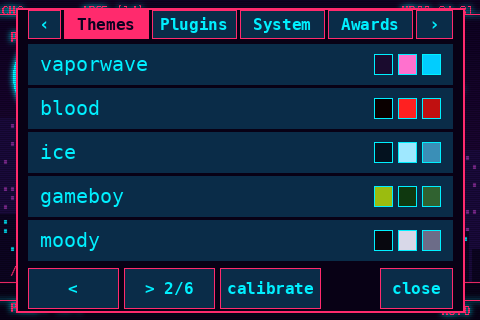
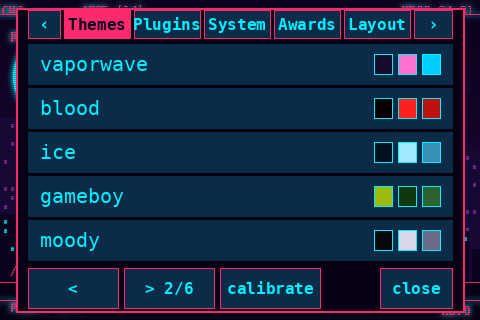
Wider tab window, and a ship for the startrek scene (2.11.1)
Feedback from someone who tried the touch menu: everything was clean
and easy, but the navigation felt finicky. With 6 tabs and only 4
shown at once, reaching some took two scroll-arrow taps; now 5 show
at once, so any tab is one tap away.

Also added a ship to the startrek scene, flying past every so often,
the same idea as the ocean's dolphin, forest's fox, desert's scorpion
and winter's penguin -- suggested by the same feedback.

Changed region(s): [[0.125, 0.0312, 0.9062, 0.125]]

diff --git a/theme_manager.py b/theme_manager.py
@@ -1412,6 +1412,23 @@ def _dyn_warp(img, d, w, h, t, sp):
         d.line([(cx + math.cos(ang) * r0, cy + math.sin(ang) * r0 * 0.7), (cx + math.cos(ang) * r1, cy + math.sin(ang) * r1 * 0.7)], fill=col, width=1)
 
 
+def _dyn_ship(img, d, w, h, t, sp):
+    """A ship glides past, high and fast, every so often -- not a constant fixture."""
+    period = max(1.0, 22.0 / sp)
+    phase = (t % period) / period
+    if phase > 0.22:
+        return
+    travel = phase / 0.22
+    x = -50 + travel * (w + 100)
+    y = 148 + 10 * math.sin(travel * math.pi)
+    col, glow = (215, 220, 235), (255, 210, 140)
+    d.ellipse((x - 9, y - 5, x + 11, y + 5), fill=col)                                       # saucer
+    d.polygon([(x - 4, y + 2), (x + 22, y + 3), (x + 26, y + 7), (x - 2, y + 8)], fill=col)   # hull
+    for dy in (-8, 9):
+        d.ellipse((x + 8, y + dy, x + 30, y + dy + 5), fill=col)                             # nacelle
+        d.ellipse((x + 27, y + dy + 1, x + 31, y + dy + 4), fill=glow)                        # engine glow
+
+
 CHRISTMAS_TREES = ((46, 88), (128, 64), (330, 76), (420, 96))
 
 
@@ -1526,7 +1543,8 @@ DYNAMIC = {"winter": lambda *a: (_dyn_snow(*a), _dyn_penguin(*a)),
            "glacier": lambda *a: _dyn_snow(*a, count=40), "christmas": lambda *a: (_dyn_snow(*a, count=60), _dyn_lights(*a)),
            "mountains": lambda *a: _dyn_snow(*a, count=30), "ocean": lambda *a: (_dyn_waves(*a), _dyn_dolphin(*a)),
            "summer": lambda *a: _dyn_waves(*a, top=190, color=(120, 200, 215)), "volcano": _dyn_embers, "autumn": _dyn_leaves,
-           "forest": lambda *a: (_dyn_fireflies(*a), _dyn_fox(*a)), "aurora": _dyn_aurora, "startrek": _dyn_warp,
+           "forest": lambda *a: (_dyn_fireflies(*a), _dyn_fox(*a)), "aurora": _dyn_aurora,
+           "startrek": lambda *a: (_dyn_warp(*a), _dyn_ship(*a)),
            "halloween": _dyn_bats, "vaporwave": _dyn_grid, "desert": _dyn_scorpion}
 ANIM_SCENES = set(DYNAMIC)
 
@@ -2024,7 +2042,7 @@ GPS_TOKENS = ("gps", "lat", "lon", "sats")
 STATUS_LINES = ("CPU {temp}  load {cpu}  RAM {mem}", "IP {ip}", "GPS {gps}  {lat} {lon}",
                 "Up {uptime}  Power {power}  Bat {battery}", "Pwned {handshakes}  Cracked {cracked}  Session {session}")
 TAB_NAMES = ("themes", "plugins", "system", "awards", "layout", "crack")
-TAB_WINDOW = 4      # tabs shown at once before it needs '<'/'>' to see the rest
+TAB_WINDOW = 5      # tabs shown at once before it needs '<'/'>' to see the rest: as many as fit comfortably
 TAB_ARROW_W = 36
 PROTECTED_PLUGINS = ('theme_manager',)   # never listed: switching it off would remove the menu itself
 
@@ -2530,7 +2548,7 @@ def _pwa_icon(size, theme):
 
 class ThemeManager(plugins.Plugin):
     __author__ = "theme_manager contributors"
-    __version__ = "2.11.0"
+    __version__ = "2.11.1"
     __license__ = "GPL3"
     __description__ = "Theme engine for the 3.5 inch display: colors, effects, animations, custom text, web GUI."
 

diff --git a/tests/test_sprites.py b/tests/test_sprites.py
@@ -1,4 +1,4 @@
-"""A small animal in a few themes (not all of them): dolphin, fox, scorpion, penguin."""
+"""A small animal (or a ship) in a few themes (not all of them): dolphin, fox, scorpion, penguin, starship."""
 import math
 import time
 
@@ -23,8 +23,8 @@ def changed(img):
 
 
 # ---------------------------------------------------------------- which themes got one, and which didn't
-sprited = {"ocean", "forest", "desert", "winter"}
-ok("a few scenes got an animal, most did not", sprited < set(T.SCENE_KINDS))
+sprited = {"ocean", "forest", "desert", "winter", "startrek"}
+ok("a few scenes got an animal or a ship, most did not", sprited < set(T.SCENE_KINDS))
 ok("desert is newly animated because of it (it had no motion before)", "desert" in T.ANIM_SCENES)
 th = T._clean(dict(T.BUILTIN["default"], effects=[{"type": "scene", "kind": "desert"}]))
 ok("...so is_animated agrees", T.is_animated(th))
@@ -39,6 +39,14 @@ ok("...and not drawn the rest (it's underwater, not just invisible)", seen_under
 # ---------------------------------------------------------------- the animals draw, and patrol within a bounded range
 for name, fn in (("fox", T._dyn_fox), ("scorpion", T._dyn_scorpion), ("penguin", T._dyn_penguin)):
     ok("%s: draws something across a range of times" % name, any(changed(draw(fn, i * 0.3)) for i in range(20)))
+
+# ---------------------------------------------------------------- the ship: an occasional flyby, not a fixture
+ship_seen = [changed(draw(T._dyn_ship, i * 0.5)) for i in range(60)]
+ok("the ship is drawn part of the time...", any(ship_seen))
+ok("...and hidden most of the time (a flyby, not a constant fixture)", ship_seen.count(True) < len(ship_seen) * 0.3, ship_seen.count(True))
+ok("it clears the face and the planet (stays out of the busy middle of the screen)",
+   all(ImageChops.difference(draw(T._dyn_ship, i * 0.3), frame()).getbbox() is None or
+       ImageChops.difference(draw(T._dyn_ship, i * 0.3), frame()).getbbox()[1] > 130 for i in range(40)))
 
 fox_xs = []
 for i in range(80):

diff --git a/docs/THEMES.md b/docs/THEMES.md
@@ -114,13 +114,13 @@ moving layer. `strength` fades the scenery toward the plain background, `speed` 
 | `halloween` | big moon, a dead tree, gravestones | bats |
 | `christmas` | pines with stars and snow | blinking lights, snow |
 | `space` | nebulae and a ringed planet | |
-| `startrek` | console bars along the edges and a planet | warp streaks |
+| `startrek` | console bars along the edges and a planet | warp streaks, an occasional ship flying past |
 | `city` | a neon skyline | |
 | `vaporwave` | striped sun over a grid | the grid glides |
 | `bloodmoon` | a red moon and a dead tree | |
 | `pixel` | blocky hills and clouds in handheld greens | |
 
-A few scenes (`ocean`, `forest`, `desert`, `winter`) also have a small animal wandering through them, the way a
+A few scenes (`ocean`, `forest`, `desert`, `winter`, `startrek`) also have a small animal or ship passing through, the way a
 Flipper Zero's dolphin turns up in its own UI — not every scene, just a handful, so it stays a nice surprise rather
 than clutter.
 

diff --git a/CHANGELOG.md b/CHANGELOG.md
@@ -1,5 +1,14 @@
 # Changelog
 
+## 2.11.1
+
+Feedback from someone who tried the touch menu: everything was clean and easy, but the navigation felt finicky.
+With the tab bar back to 6 tabs (radar is gone), only 4 showed at once, so reaching some of them took two taps of
+the scroll arrow. It now shows 5 at a time, so any tab is one tap away.
+
+Also added a ship to the `startrek` scene: it flies past every so often, not a constant fixture, the same idea as
+the ocean's dolphin, forest's fox, desert's scorpion and winter's penguin.
+
 ## 2.11.0
 
 **Location memory.** The Cracking dashboard now shows where a handshake was captured, if pwnagotchi's own `gps`
